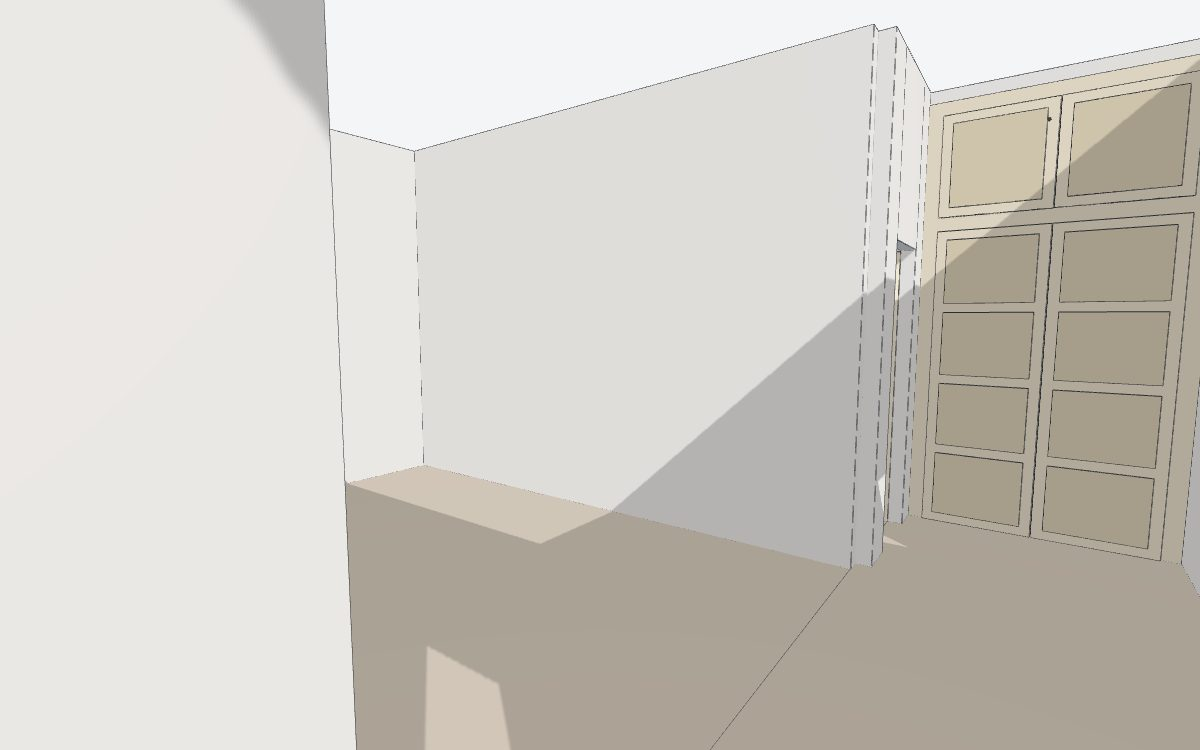
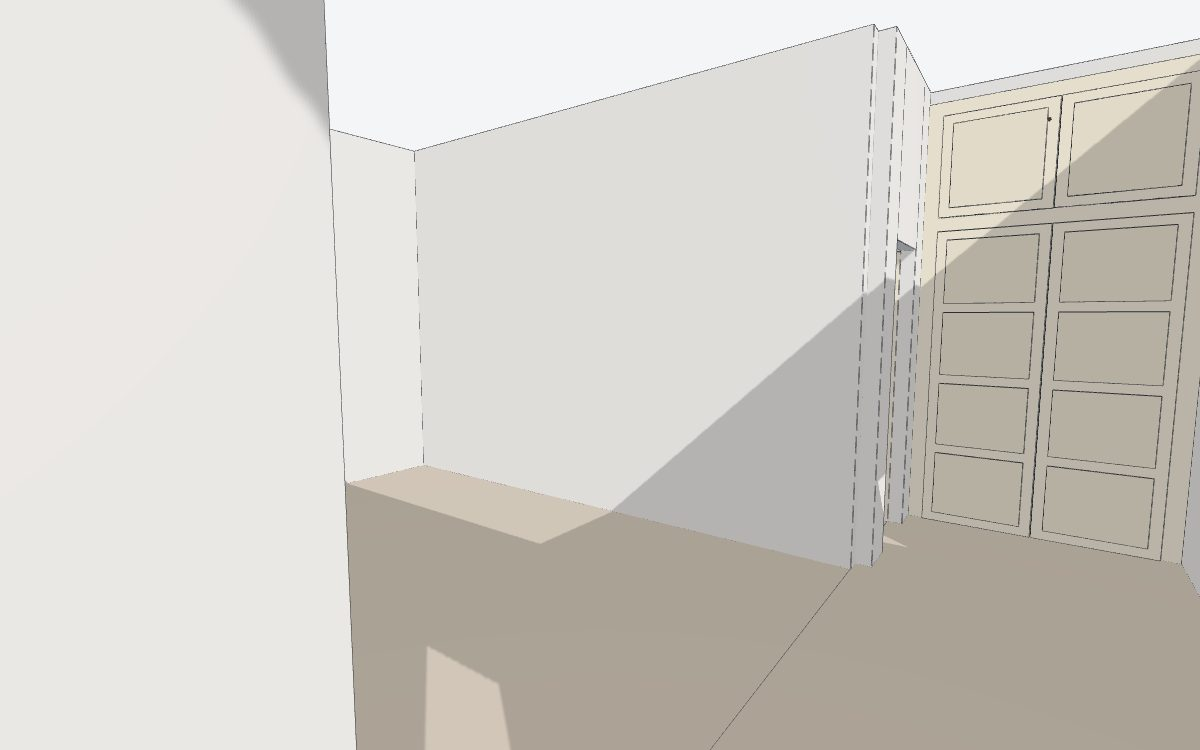
casa-poggi: bathroom door fully open, lighter cream panels on door and wardrobe
Claude-Session: https://claude.ai/code/session_017Czcnh6xzZxgGSwco7M1Pu

diff --git a/projects/casa-poggi/house.js b/projects/casa-poggi/house.js
@@ -97,7 +97,7 @@ box('/Casa/Vetro_Finestra_Bagno', C.glass, BAGNO_WIN.from, YS1 + 14, BAGNO_WIN.s
 
 // ---------- bathroom door (from the user's photo): cream leaf with 5 raised panels, hinged on the east jamb, left open into the bagno ----------
 // the viewer can't rotate boxes, so the leaf and its panels are slab polygons in a local frame (u along the leaf, v across it)   open angle, panel sizes estimate
-{ const BD = { x0: XB0 + 30, x1: XB0 + 100, ang: 65, t: 4, c: [238, 228, 204, 255], p: [230, 218, 190, 255] };
+{ const BD = { x0: XB0 + 30, x1: XB0 + 100, ang: 90, t: 4, c: [242, 234, 214, 255], p: [238, 229, 208, 255] };
   const a = BD.ang * Math.PI / 180, w = BD.x1 - BD.x0 - 2, hx = BD.x1 - 1, hy = YS0;
   const u = [-Math.cos(a), Math.sin(a)], v = [Math.sin(a), Math.cos(a)];
   const P = (pu, pv) => [hx + u[0] * pu + v[0] * pv, hy + u[1] * pu + v[1] * pv];
@@ -162,7 +162,7 @@ const balcony = (n, x0, x1, y0, y1, side) => {
 const out = process.argv[2] || path.join(__dirname, 'scene.json');
 // built-in wardrobe on the east end wall of the ingresso (from the user's photos): full corridor width, 10 cm side frames,
 // 2 upper doors (1 panel, lock on the right one) + 2 tall lower doors (4 panels)   width/top gap measured, recessed: only 5 cm (frame + doors) stand out of the wall, split heights estimate
-{ const W = { d: 2.4, side: 10, top: H - 10, split: 225, rail: 10, c: [232, 222, 200, 255], line: [218, 205, 178, 255] };
+{ const W = { d: 2.4, side: 10, top: H - 10, split: 225, rail: 10, c: [242, 234, 214, 255], line: [238, 229, 208, 255] };
   const xf = XR - W.d, y0 = YI0, y1 = YI1, yd0 = y0 + W.side, yd1 = y1 - W.side, ym = (yd0 + yd1) / 2;
   group('armadio', () => {
     box('/Armadio/Corpo', W.c, xf, y0, 0, XR, y1, W.top);
